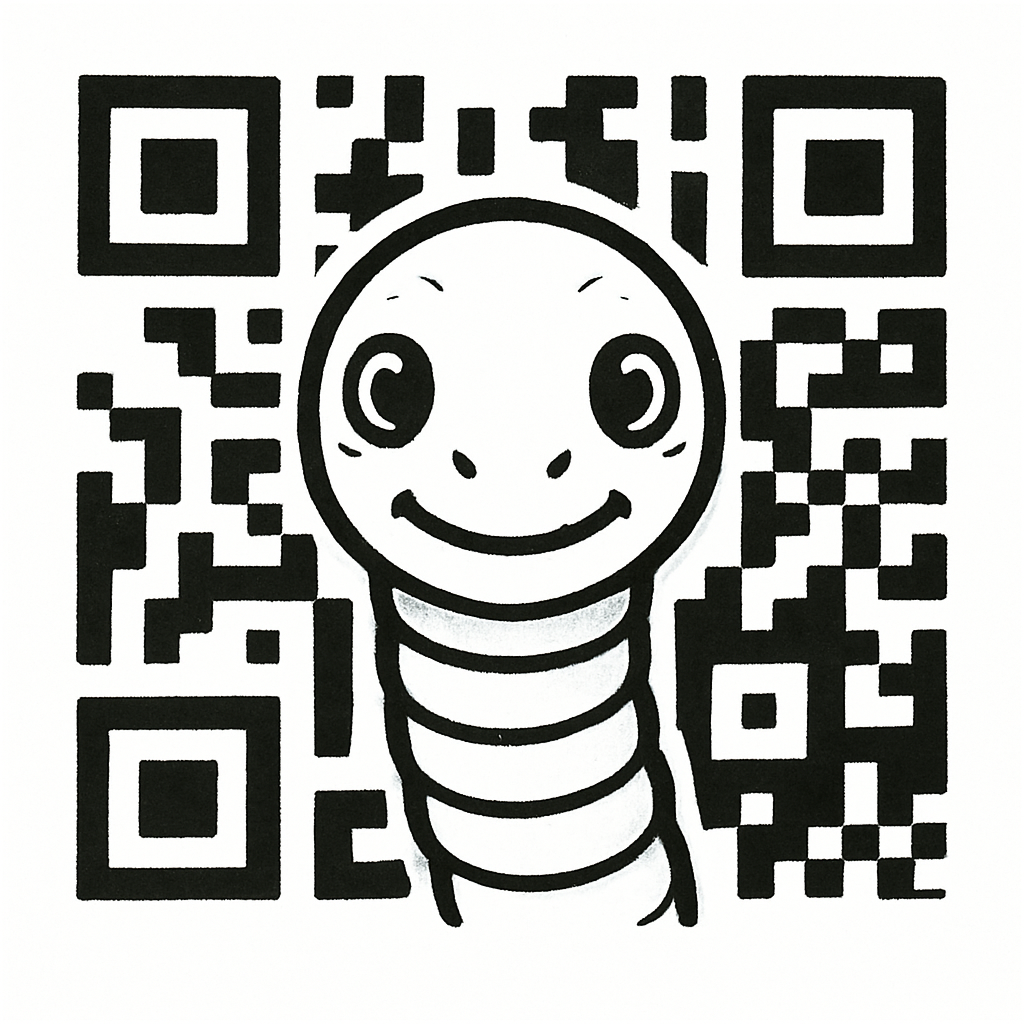
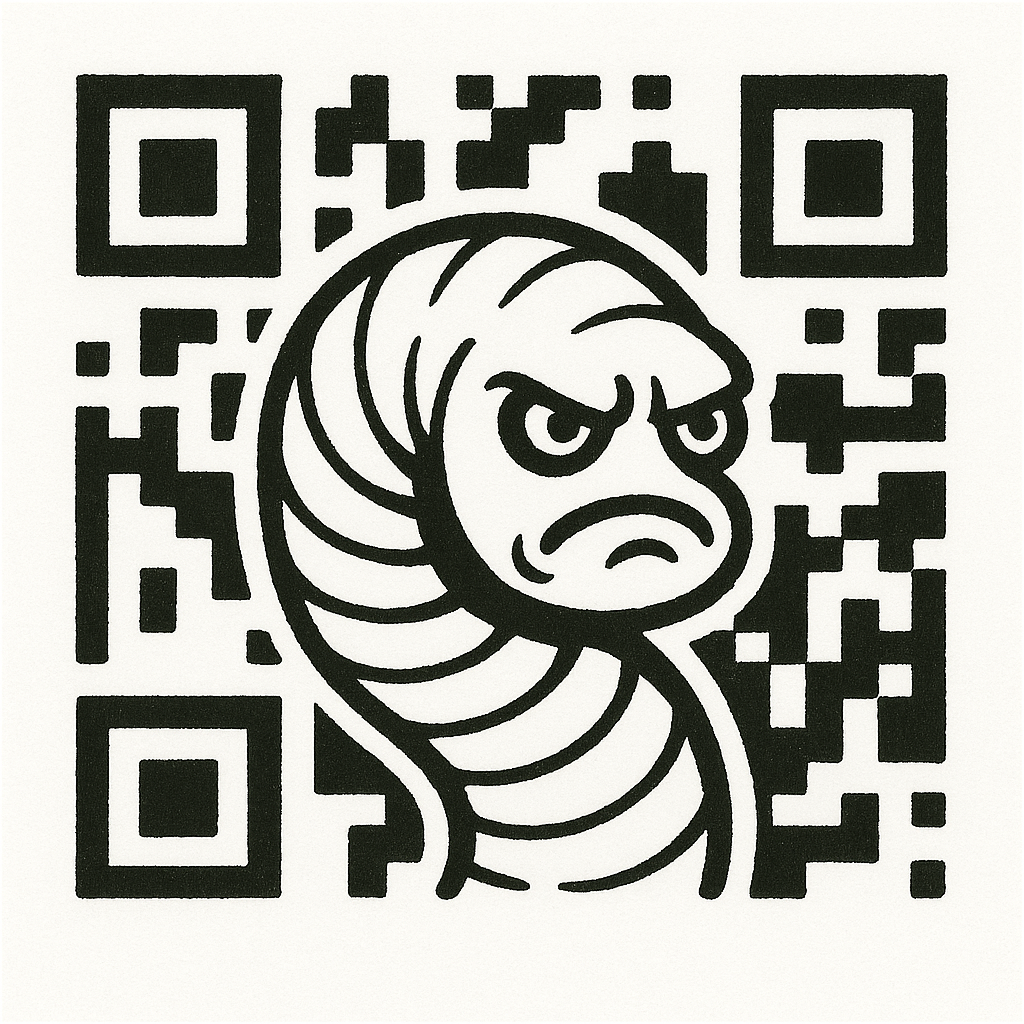
QRSpawner draft and image cutting

diff --git a/Assets/Scripts/QRSpawner.cs b/Assets/Scripts/QRSpawner.cs
@@ -1,0 +1,24 @@
+using System.Collections.Generic;
+using UnityEngine;
+
+public class QRSpawner : MonoBehaviour
+{
+    [SerializeField] private List<Sprite> goodSprites;
+    [SerializeField] private List<Sprite> badSprites;
+    
+    private SpriteRenderer _spriteRenderer;
+    void Awake()
+    {
+        _spriteRenderer = GetComponentInChildren<SpriteRenderer>();
+    }
+
+    // Update is called once per frame
+    void Update()
+    {
+        if (Input.anyKeyDown)
+        {
+            var target = Random.Range(0, 2) == 0 ? goodSprites : badSprites;
+            _spriteRenderer.sprite = target[Random.Range(0, target.Count)];
+        }
+    }
+}
